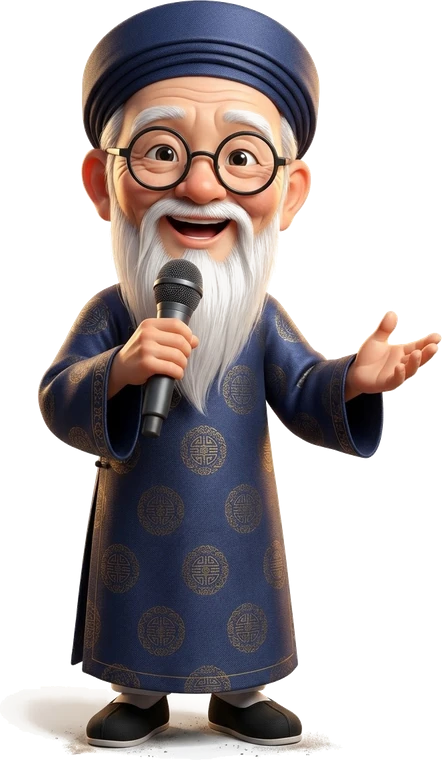
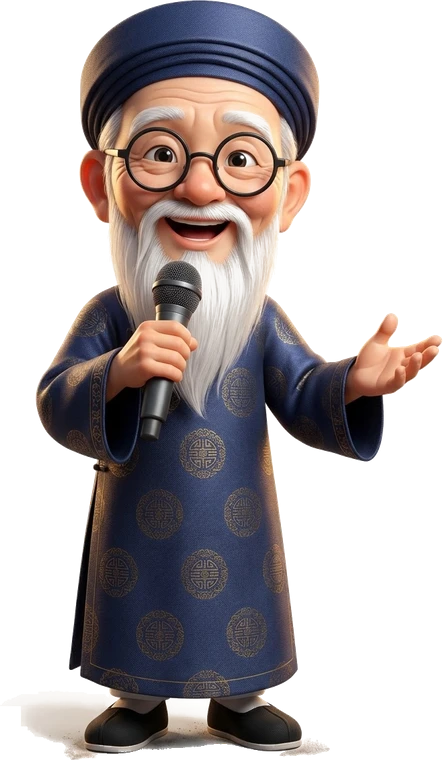
sửa tab vòng, chỗ đứng ông đồ, bỏ bóng chân; không tải lại trang khi ghi data; ghi chú luật chơi

diff --git a/src/game/GameStage.tsx b/src/game/GameStage.tsx
@@ -19,7 +19,7 @@ export function GameStage({ game }: { game: GameState }) {
     <div className="absolute inset-0 select-none" style={{ color: INK }}>
       {/* Tab vòng thi, đè lên chữ in sẵn trên nền */}
       <div
-        className="absolute flex items-center justify-center rounded-t-[22px] border-x-[3px] border-t-[3px] text-[34px] font-extrabold tracking-wide"
+        className={`absolute flex items-center justify-center whitespace-nowrap rounded-t-[22px] border-x-[3px] border-t-[3px] ${v.vongNhan.length > 9 ? 'text-[26px]' : 'text-[32px]'} font-extrabold`}
         style={{ left: 738, top: 556, width: 186, height: 82, borderColor: GOLD, background: 'linear-gradient(#7a2414,#561409)', color: '#ffd977' }}
       >
         {v.phase === 'cho' ? 'SẮP THI' : v.vongNhan}
@@ -228,7 +228,9 @@ function BangNho({ v }: { v: View }) {
         <span className="text-[24px] font-semibold opacity-75">{v.soSiTu} sĩ tử</span>
       </div>
       {v.top.length === 0 ? (
-        <div className="mt-8 text-center text-[30px] font-semibold opacity-70">Chưa ai ghi danh. Gõ đáp án để lên bảng!</div>
+        <div className="mt-8 text-center text-[30px] font-semibold opacity-70">
+          {v.soSiTu ? 'Chưa ai có điểm. Trả lời đúng để lên bảng!' : 'Chưa ai ghi danh. Gõ đáp án để lên bảng!'}
+        </div>
       ) : (
         <div className={two ? 'grid grid-cols-2 gap-x-6' : ''}>
           {v.top.map((h) => (
@@ -287,7 +289,7 @@ function MC({ v }: { v: View }) {
     : v.phase === 'doc' || v.phase === 'bangVang' ? 'chi'
     : 'cuoi';
   return (
-    <div className="pointer-events-none absolute" style={{ left: 640, top: 1240, height: 420 }}>
+    <div className="pointer-events-none absolute" style={{ left: 650, top: 1288, height: 400 }}>
       <AnimatePresence mode="popLayout">
         <motion.img
           key={pose}
@@ -296,7 +298,7 @@ function MC({ v }: { v: View }) {
           animate={{ opacity: 1, y: 0 }}
           exit={{ opacity: 0 }}
           transition={{ duration: 0.25 }}
-          style={{ height: 420, filter: 'drop-shadow(0 8px 10px rgba(0,0,0,.35))' }}
+          style={{ height: 400, filter: 'drop-shadow(0 8px 10px rgba(0,0,0,.35))' }}
           draggable={false}
         />
       </AnimatePresence>

diff --git a/src/game/useGame.ts b/src/game/useGame.ts
@@ -137,7 +137,7 @@ export function useGame() {
       .then((u) => Object.assign(room.used, u))
       .catch(() => {})
       .finally(() => {
-        room.cho(Date.now());
+        if (!room.endsAt) room.cho(Date.now()); // chủ kênh đã bấm "Bắt đầu ngay" trong lúc chờ thì thôi
         ready = true;
       });
     const id = setInterval(() => {

diff --git a/vite.config.ts b/vite.config.ts
@@ -7,5 +7,7 @@ export default defineConfig({
   server: {
     // lvh.me trỏ về 127.0.0.1; TikTok LIVE Studio không nhận "localhost"
     allowedHosts: ['lvh.me'],
+    // server ghi data/*.json lúc đang chơi: không được làm trang stage tải lại
+    watch: { ignored: ['**/data/**', '**/settings.json'] },
   },
 });

diff --git a/CLAUDE.md b/CLAUDE.md
@@ -1,28 +1,44 @@
-# {TÊN GAME}: ghi chú cho Claude
+# Ai Là Trạng Nguyên: ghi chú cho Claude
 
-> File này mô tả RIÊNG game này. Luật chung cho mọi game nằm ở `E:\VibeCode\CLAUDE.md` (Claude tự đọc cả hai).
-> Khi chủ kênh chốt một quyết định (câu đọc, màu, font, luật chơi), ghi vào mục "Quyết định của chủ kênh".
+> File này mô tả RIÊNG game này. Luật chung cho mọi game nằm ở `E:\01_Projects\VibeCode\CLAUDE.md`.
+> Khi chủ kênh chốt một quyết định (câu đọc, màu, luật chơi), ghi vào mục "Quyết định của chủ kênh".
 
 ## Ý tưởng
 
-{Mô tả game trong 2–3 câu: người xem làm gì, quà làm gì, tim làm gì.}
+Game show trắc nghiệm cho TikTok LIVE theo không khí khoa cử xưa. Ông đồ cầm mic làm quan chủ khảo, người xem gõ A, B, C, D vào bình luận. Một ván 20 câu qua 4 kỳ thi, cuối ván 3 người cao điểm nhất đỗ Trạng Nguyên, Bảng Nhãn, Thám Hoa. Lấy cảm hứng từ Ai là triệu phú nhưng không dùng tên, giao diện, nhạc hay câu thoại của show đó.
 
 ## Luật chơi
 
-- Tham gia: gõ {từ khóa}
-- Comment: {…}
-- Quà: {…}
-- Tim: đủ {số} tim thì {…}
+- Ai cũng chơi được, không cần gõ từ khoá tham gia. Gõ đáp án là có tên trong trường thi.
+- 4 kỳ thi, mỗi kỳ 5 câu (`GAME.vong` trong config.ts):
+  Khảo hạch trường làng 10 giây +100 / −50 · Thi Hương 15 giây +200 / −100 · Thi Hội 20 giây +300 / −150 · Thi Đình 25 giây +500 / −250.
+- Điểm tốc độ: đúng ngay giây đầu được tối đa, sát giờ được 50% (`diemSan`). Tính theo giờ TikTok gắn lúc gửi (`createTime`), không theo lúc server nhận.
+- Sai bị trừ nửa điểm tối đa của kỳ; tổng điểm không xuống dưới 0. Không trả lời thì 0 điểm.
+- Đúng liền 3 câu thì +100 (`chuoiMoi`, `chuoiThuong`); sai hoặc bỏ câu thì chuỗi tính lại.
+- Mỗi người chỉ tính lần trả lời đầu tiên của câu. Nhận "a", "C.", "đáp án b", "chọn D", "câu c".
+- Quan chủ khảo đọc xong đề và 4 đáp án thì 4 ô mới hiện và mới tính giờ. Gửi trước lúc hiện quá 0,5 giây thì không tính, không mất lượt.
+- Đang hỏi không hiện tỉ lệ từng đáp án (tránh người vào sau chép số đông), chỉ hiện số người đã nộp. Tỉ lệ hiện lúc công bố đáp án.
+- Bằng điểm: ai có tổng thời gian trả lời đúng ngắn hơn xếp trên, rồi tới ai vào trước.
+- Danh hiệu theo hạng: 1 Trạng Nguyên, 2 Bảng Nhãn, 3 Thám Hoa, 4-10 Tiến sĩ, 11-15 Cử nhân, 16-20 Tú tài.
+- Hết mỗi kỳ thi hiện Bảng vàng top 20 (9 giây, "Người mới vào vẫn kịp thi kỳ sau"). Hết ván: màn Vinh quy bái tổ 15 giây, rồi đếm ngược 15 giây sang ván mới (game tự chạy cả buổi).
+- Quà KHÔNG cho lợi thế gì trong game (TikTok cấm khuyến khích tặng quà), chỉ cảm ơn.
+- Một ván khoảng 11-12 phút (ước lượng, chưa đo trên live).
 
-## File của game này
+## File
 
-- `src/game/config.ts`: số liệu, câu đọc, từ khóa. Sửa nhỏ thì sửa ở đây trước.
-- `src/game/useGame.ts`: luật chơi (xử lý chat, quà, tim, người vào).
-- `src/game/GameStage.tsx`: màn hình trên live, khung 1080×1920.
-- `src/game/…`: thêm component riêng của game ở đây.
-- `src/live/`, `server.ts`: phần chung lấy từ `_base`, hạn chế sửa.
+- `src/game/thi.ts`: lõi luật chơi (không React). Test: `npx tsx src/game/thi.check.ts`.
+- `src/game/config.ts`: số liệu + lời quan chủ khảo (`GAME.loi`).
+- `src/game/useGame.ts`: nối sự kiện TikTok với lõi, giọng đọc. Trang stage chạy game và gửi ảnh chụp lên `/api/game/state`; trang điều khiển chỉ vẽ lại.
+- `src/game/GameStage.tsx`: màn hình 1080x1920 vẽ đè lên `public/assets/bg/nen.jpg`. Toạ độ khung câu hỏi x 165-917, y 642-1059.
+- `src/game/GameControls.tsx`: nút "Bắt đầu ván mới", "Bỏ câu này", giả lập 1 / 60 / 500 người.
+- `src/game/cau-hoi/trac-nghiem.txt`: TẠM mượn từ Lớp Học Chữ để chạy thử. Bộ câu thật chủ kênh muốn bàn riêng.
+- `data/da-hoi.json`: câu nào hỏi lúc nào, game ưu tiên câu lâu chưa hỏi.
+- Ông đồ MC: ảnh gốc `public/assets/MC/` (nền trắng), tách nền bằng `node tools/tach-nen.mjs` ra `public/assets/nv/mc/` (mung, suy-nghi, chi, cuoi, tiec).
+- Ảnh nền gốc `ai-la-trang-nguyen.png` (1536x2752, đã xoá logo sao Gemini góc phải dưới khi xuất `nen.jpg`).
+- Cổng **3007** (BAT-LIVE.bat). Link LIVE Studio: http://lvh.me:3007/?view=stage. Thử trong khung preview của Claude: cổng 3507, mở `?view=stage&mute=1` (không phát tiếng).
 
 ## Quyết định của chủ kênh
 
-- {ví dụ: Font Lora. Nền public/assets/bg/xxx.webp.}
-- {ví dụ: Câu chào: "..." giữ nguyên chữ.}
+- Tên game "Ai Là Trạng Nguyên", 20 câu, 4 kỳ: Khảo hạch trường làng, Thi Hương, Thi Hội, Thi Đình (2026-11-07).
+- Ảnh nền và nhân vật ông đồ do chủ kênh vẽ (2026-11-07).
+- Bộ câu hỏi bàn riêng, chưa làm (2026-11-07).
